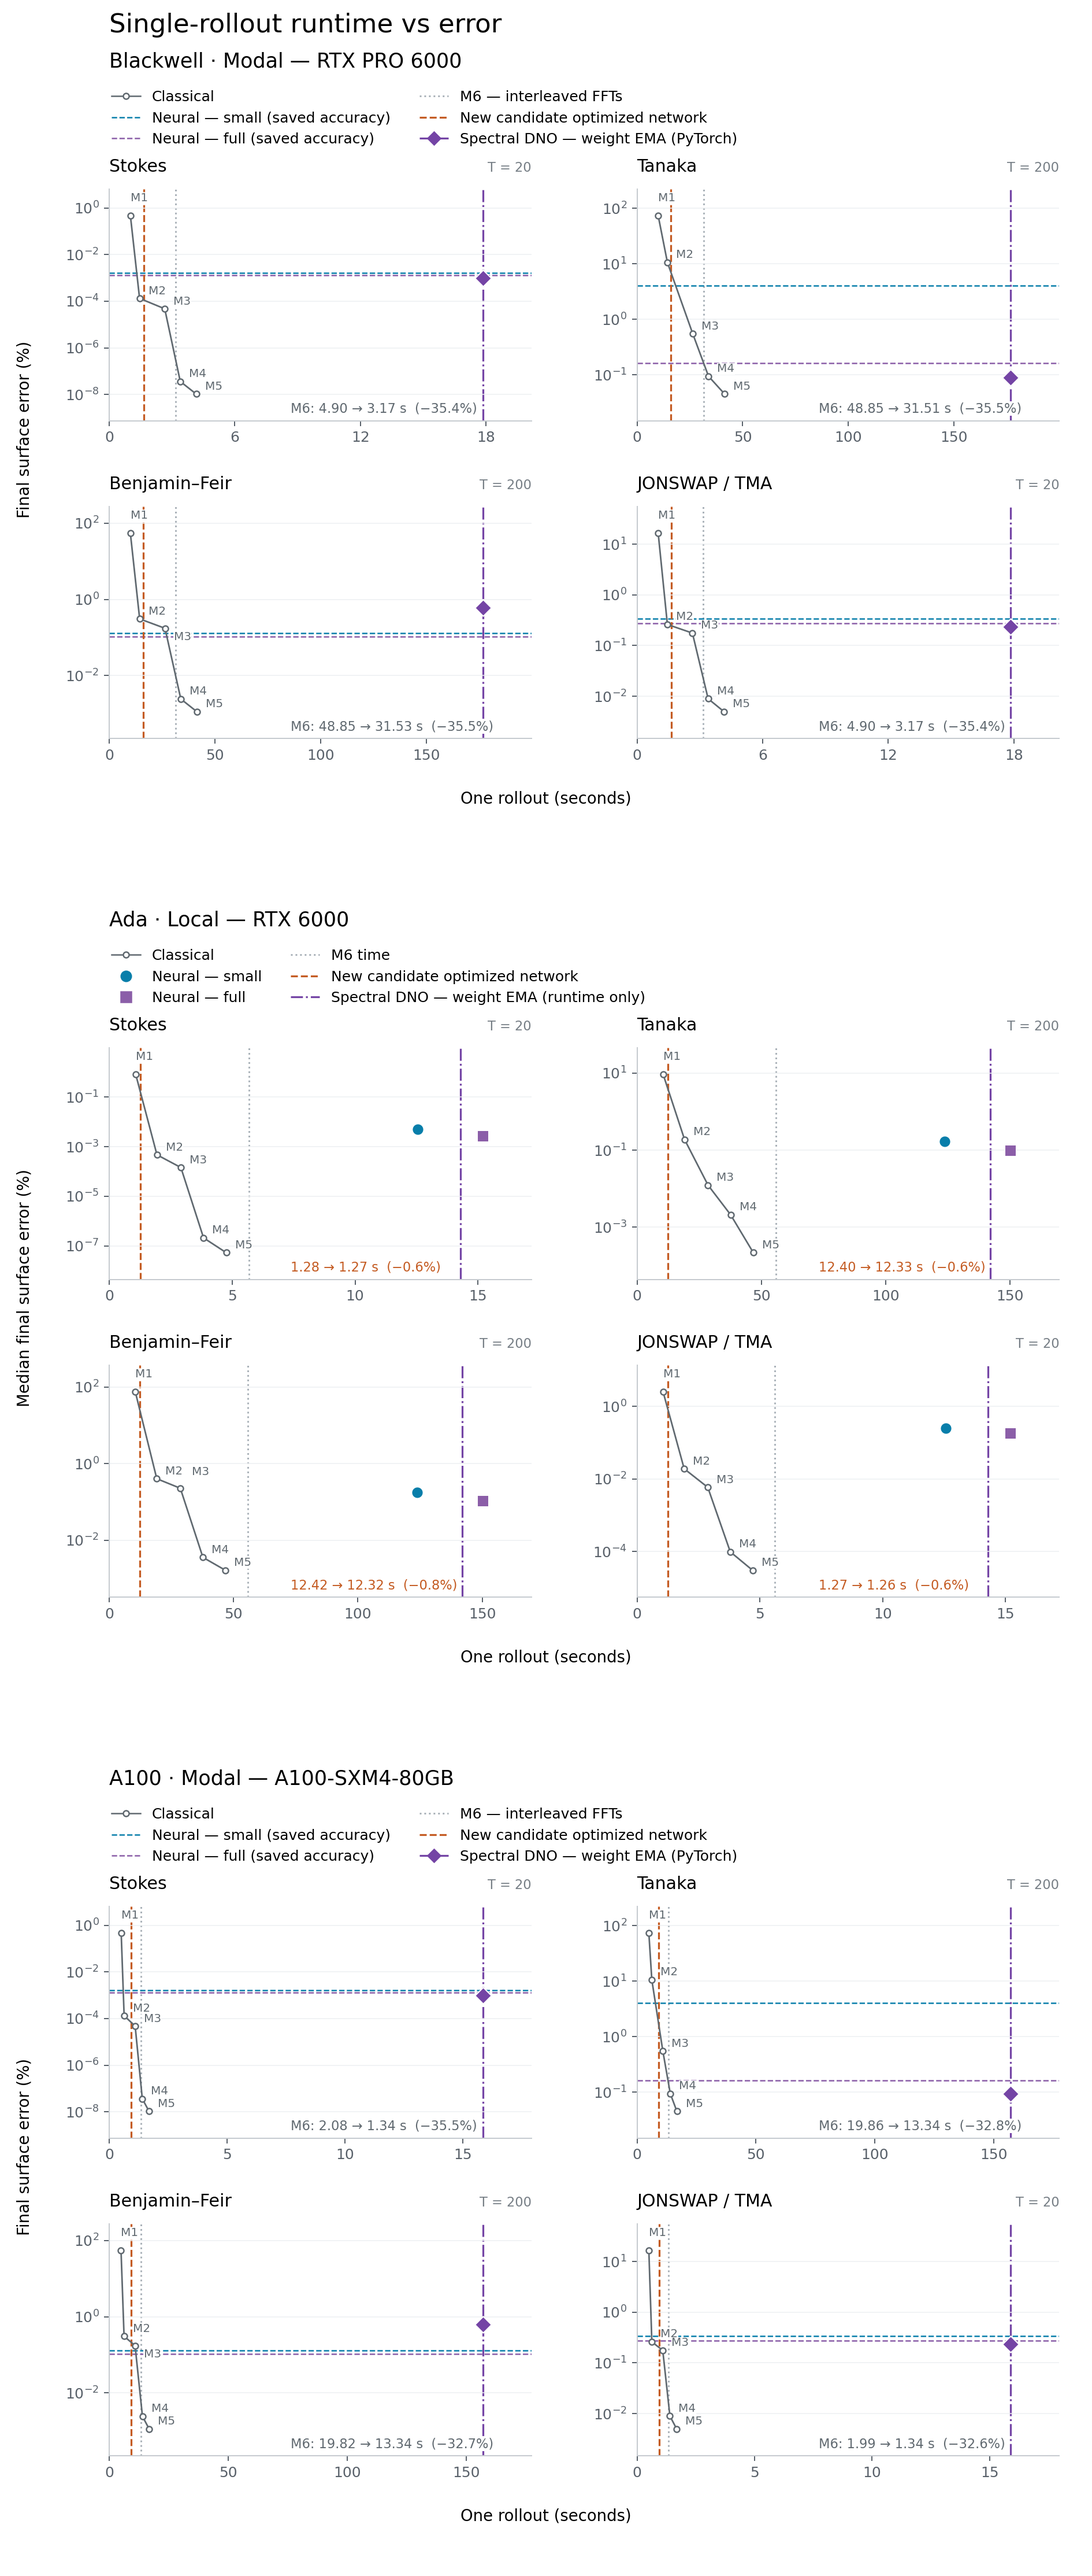
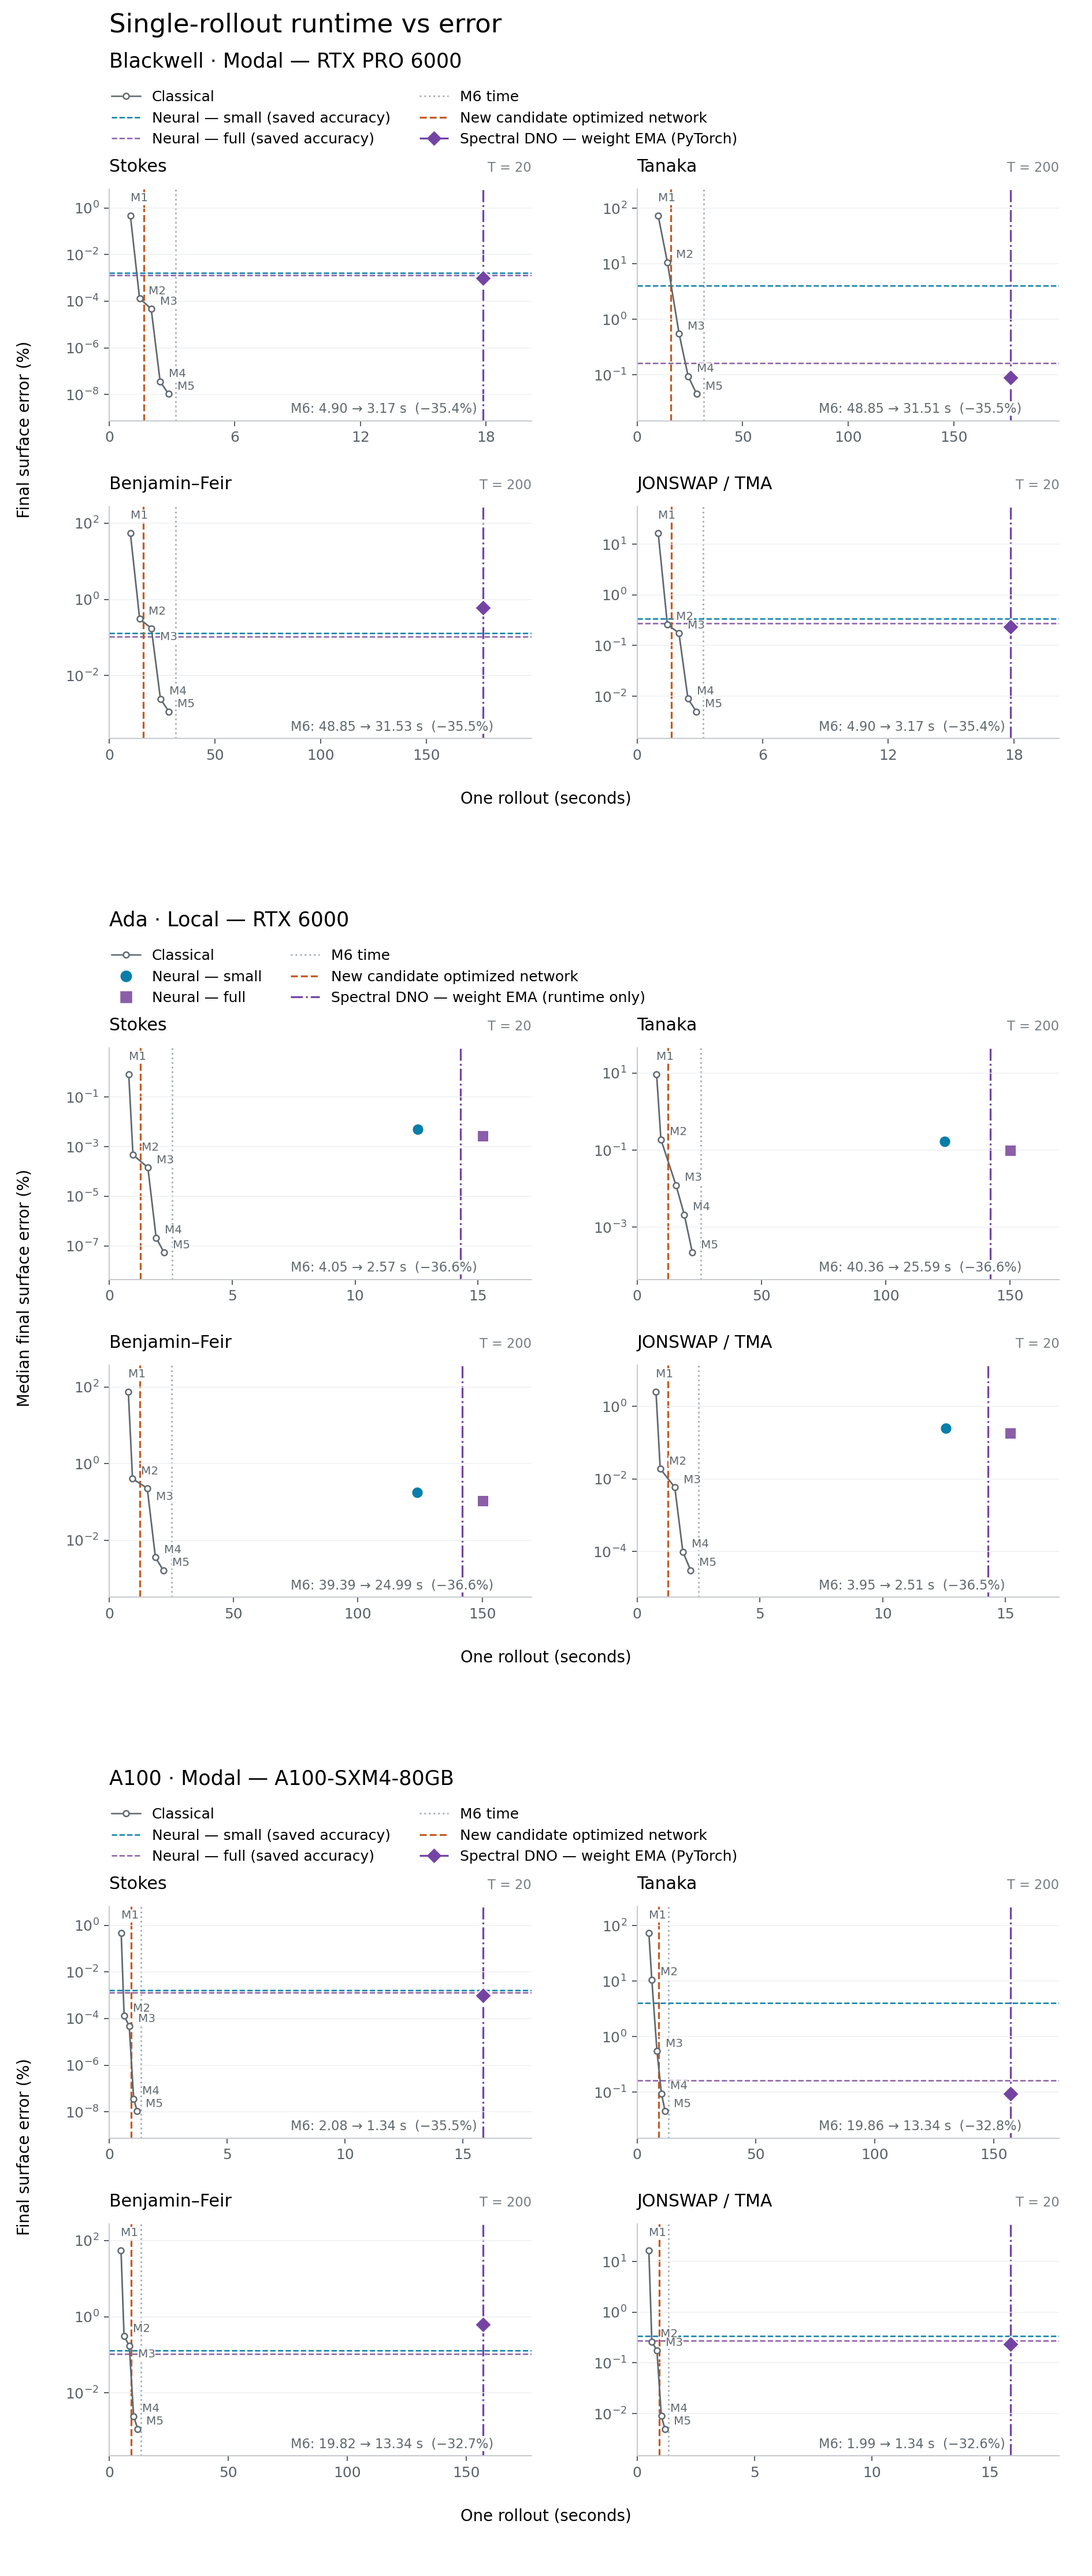
Refresh all-order classical timings and Figure 12

diff --git a/paper-plots/plot_neural_advantage.py b/paper-plots/plot_neural_advantage.py
@@ -41,12 +41,6 @@ def draw_comparison(args: argparse.Namespace, fig: Figure | SubFigure, heading: 
     for path in args.candidate_timings or ():
         for family, result in json.loads(path.read_text())["families"].items():
             candidate["families"].setdefault(family, result)["methods"].update(result["methods"])
-    if args.stack_hardware and not args.single_case:
-        for family, result in candidate["families"].items():
-            for method, record in result["methods"].items():
-                classical = method.split("_", 1)[0]
-                if classical in ("M1", "M2"):
-                    warm["families"][family]["methods"][classical]["seconds"] = record["seconds"]
     baseline_free = json.loads(args.no_baseline_timings.read_text()) if args.no_baseline_timings and not args.single_case else None
     spectral = {}
     for path in args.spectral_timings or ():
@@ -105,7 +99,7 @@ def draw_comparison(args: argparse.Namespace, fig: Figure | SubFigure, heading: 
         ax.plot(seconds[:-1], errors[:-1], "o-", color="#606970", ms=4,
                 markerfacecolor="white", lw=1.1, zorder=2)
         for order, x, y in zip(orders[:-1], seconds[:-1], errors[:-1], strict=True):
-            offset = ((6, -8) if args.single_case else (8, 9)) if family == "benjamin_feir" and order == 3 else (6, 3)
+            offset = (6, -8) if family == "benjamin_feir" and order == 3 else (6, 3)
             if (candidate or baseline_free) and order == 1:
                 offset = (0, 10)
             ax.annotate(f"M{order}", (x, y), xytext=offset, textcoords="offset points",
@@ -189,7 +183,7 @@ def draw_comparison(args: argparse.Namespace, fig: Figure | SubFigure, heading: 
                   ls="--" if args.single_case else "none", lw=1.0, ms=7,
                   label=f"Neural — {name}" + (" (saved accuracy)" if args.single_case else ""))
           for _, name, _, color, marker in reversed(RUNS)],
-        Line2D([], [], color="#aab2b9", ls=":", lw=1.2, label="M6 — interleaved FFTs" if interleaved_m6 else "M6 time"),
+        Line2D([], [], color="#aab2b9", ls=":", lw=1.2, label="M6 time"),
         *[Line2D([], [], color=color, ls=style, lw=width, label=label)
           for comparison, color, label, _method, style, width in overlays if comparison],
         *([Line2D([], [], color="#7444a5", marker="D" if args.single_case else None, ls="-.", ms=6, lw=1.3,
@@ -229,9 +223,9 @@ if __name__ == "__main__":
         a100 = argparse.Namespace(**vars(modal))
         for config, hardware in ((modal, "blackwell"), (args, "ada"), (a100, "a100")):
             classical = ROOT / "outputs" / {
-                "ada": "spectral_carry_20260927/ada_classical.json",
-                "blackwell": "classical_interleaved_20260927/blackwell/classical.json",
-                "a100": "classical_interleaved_20260927/a100_sxm/classical.json",
+                "ada": "classical_all_orders_20260928/ada/classical.json",
+                "blackwell": "classical_all_orders_20260928/blackwell/classical.json",
+                "a100": "classical_all_orders_20260928/a100_sxm/classical.json",
             }[hardware]
             if config.single_case:
                 config.timings = classical

diff --git a/paper-plots/README.md b/paper-plots/README.md
@@ -177,14 +177,13 @@ The candidate retains the same checkpoint, G0+G1 baselines, cuFFTDx G1 evaluatio
 cached depth multipliers and packed network branches. Its spectral adapter
 removes repeated physical/Fourier round trips and batches independent inverse
 FFTs. Every classical order M1–M6 receives the shared nonlinear FFT packing.
-Blackwell and A100 now use the same FP64 cuFFTDx classical implementation:
+All three GPUs now use the same FP64 cuFFTDx classical implementation:
 M1 uses unpadded DNO products with EPT8, M2 uses the specialized recurrence
 with unpadded products and EPT16, and M3–M6 use 2× padding with EPT8.
-The latest cloud M6 measurements interleave surface-power construction with
-the recurrence, reducing FFT dispatches from 22 to 12. M1–M5 have not been
-retimed with that schedule; their points are unchanged.
+M3–M6 interleave surface-power construction with the recurrence, reducing
+M6 FFT dispatches from 22 to 12. Ada's M1–M6 and the missing cloud M3–M5
+timings have been refreshed; cloud M1/M2 and M6 retain their preceding measurements.
 The unpadded M1/M2 products exploit the existing 128-mode state filter.
-Ada retains its previous measurements and 2× DNO padding.
 Each binary product is projected back to the base modes before reuse;
 the earlier 2×/8× check on 48 states across all six orders had maximum
 relative difference 7.75e-12; see
@@ -218,27 +217,22 @@ Spectral carry and local propagators also apply to every classical order M1–M6
 alongside the previous stage pairing and boundary FFT packing. FP64 integration/G1,
 FP32 learned inference, weights and iteration count are unchanged.
 
-Cloud M6 timings come from
-`outputs/classical_interleaved_20260927/{blackwell,a100_sxm}/classical.json`.
-Gray annotations compare interleaved M6 against its paired preceding M6
-implementation using three alternating full-rollout repeats per family.
-Only M6 is replaced; the M1–M5 and neural measurements remain under
-`outputs/classical_figure12_20260927/{blackwell,a100_sxm}/`:
-`classical.json` contains the preceding M1–M6 sweep and `neural.json` contains
-the current and preceding candidates. That sweep used one `sciml-at-ud`
-allocation per hardware, with three alternating full-rollout repeats after full-executable
-warm-up. Classical and neural runs retain the same integration settings and
-packed boundaries; the neural checkpoint and inference path are unchanged.
-One warmed and timed cuFFT control per order checks the selected native
-implementation. Classical errors remain referenced to the cached M6 trajectory.
-Ada is unchanged: classical measurements come from
-`outputs/spectral_carry_20260927/ada_classical.json`, and the candidate and paired
-M2 timings come from `outputs/half_spectrum_20260927/ada_full.json` on GPU1.
-Ada's orange annotations compare the candidate against
-`fourier_fused_features_overlap_spectral_all_boundaries_stages_carry_local`
-using paired old/new neural timings. Product fusion saves 0.60–0.75% on the
-retained Ada run. Both annotation types use paired measurements, not differences
-between allocations.
+Classical timings come from
+`outputs/classical_all_orders_20260928/{ada,blackwell,a100_sxm}/classical.json`.
+Ada uses a fresh all-order sweep. Cloud M3–M5 use new `sciml-at-ud` runs;
+M1/M2 retain `outputs/classical_figure12_20260927/` measurements, and M6
+retains `outputs/classical_interleaved_20260927/` measurements. These cloud
+points therefore span multiple allocations. Each M3–M6 optimization comparison
+uses paired old/new implementations, with three alternating full-rollout repeats
+after full-executable warm-up. Gray annotations show the paired M6 savings,
+not differences between allocations. Ada keeps its original 32-case median
+errors; cloud errors remain referenced to the cached single-case M6 trajectory.
+Neural timings are unchanged: cloud candidates remain under
+`outputs/classical_figure12_20260927/{blackwell,a100_sxm}/neural.json`, and Ada
+uses `outputs/half_spectrum_20260927/ada_full.json`. Classical and neural runs
+retain the same integration settings and packed boundaries; neural checkpoints,
+inference paths, trained-model accuracy references and spectral EMA overlays
+are unchanged.
 Balanced feature stores showed no useful additional gain. Half-spectrum GL2
 carry was also tested for both methods and rejected; the selected neural and
 classical paths both retain full-spectrum carry.
@@ -328,17 +322,17 @@ and selected by the rollout timer; production trainers and checkpoints are
 untouched. Search results, numerical checks and merge decisions are recorded
 in `notes/dno_profile_20260924.md` and the September 25–26 logs under `experiments/`.
 This update does not regenerate figure 11, the manuscript or the ZIP. After
-building cuFFTDx for the selected cloud GPU, reproduce the shared benchmark with:
+building cuFFTDx for the selected GPU, reproduce the classical sweep with:
 
 ```sh
 XLA_FLAGS=--xla_gpu_experimental_stream_annotation=true \
   UV_CACHE_DIR=/tmp/codex-uv-cache uv run --no-sync scripts/benchmark_classical.py \
   --sweep --rollouts --repeats 3 \
-  --candidate-run outputs/c27_w320_b4_h80_tanaka_hard128_20260924 \
   --output outputs/classical_sweep/sweep.json
 ```
 
-Reproduce the M6 interleaving comparison with:
+Add `--sweep-orders 3 4 5` for the cloud refresh; Ada uses all six orders.
+Reproduce the retained cloud M6 interleaving comparison with:
 
 ```sh
 XLA_FLAGS=--xla_gpu_experimental_stream_annotation=true \
@@ -348,8 +342,8 @@ XLA_FLAGS=--xla_gpu_experimental_stream_annotation=true \
   --output outputs/classical_interleaved/rollouts.json
 ```
 
-The cloud runner extracts the selected records into `classical.json` and
-`neural.json` for each hardware section. Render the figure with:
+The selected records populate `classical.json`; the preceding `neural.json`
+files are unchanged. Render the figure with:
 
 ```sh
 UV_CACHE_DIR=/tmp/codex-uv-cache uv run --no-sync paper-plots/plot_neural_advantage.py \

diff --git a/experiments/experiments-2026-09-28.md b/experiments/experiments-2026-09-28.md
@@ -1,3 +1,4 @@
 | Date | Time | File / Variant | Motivation | What Tried / Evidence | Correctness | Timing | Decision |
 | --- | --- | --- | --- | --- | --- | --- | --- |
 | 2026-09-28 | 02:08 | Complete interleaved classical-order timing refresh: Ada M1–M6 and cloud M3–M5 | Measuring only M6 left the intermediate-order frontier on the old schedule and Ada untouched; fresh selected-order timings are needed without extrapolating M6 gains or repeating already confirmed cloud orders. | Extended benchmark_classical.py sweep with --sweep-orders; M1 nativeFP64pad1EPT8 and M2 specialized nativeFP64pad1EPT16 retained, M3–M6 interleaved nativeFP64pad2EPT8. M1/M2 controls use cuFFTpad2, M3–M6 controls the preceding native schedule. Three alternating repeats for selected and control methods, unchanged independent untimed M6 reference. Built SM89 kernels and launched Stokes/Tanaka on AdaGPU0,BF/JON on AdaGPU1 after both were verified idle; submitted missing M3–M5 four-family sweeps on sciml-at-ud A100-SXM4 and Blackwell. | Independent actual-CLI mocked CPU audit passes all-order,3–5subset and2-only cases: correct backends,padding,EPT,same-order controls; fixedM6 self-reference works when6excluded; full251frames,N1024,dt0.01,P128,first-case selection,packed boundaries and forward/reverse/forward timing order verified. Expected Ada52outputs/144timings,cloud28outputs/72timings each. Previous recurrence correctness proof remains applicable; Ruff/Pyright/diff checks pass. | Jobs running as of02:08; native/full-rollout results pending. Sources outputs/classical_all_orders_20260928/{ada,a100_sxm,blackwell}. Each timing is a single full T20/T200 trajectory, never a batch of trajectories. | RUN complete measurements before Figure12 refresh. Preserve neural/spectral timing and accuracy data; Ada errors retain existing32-case medians. Cloud M1/M2 and already confirmed interleaved M6 remain measured prior values. No production/trainer/kernel source edits or interruption of others. Stop resource use on any Modal funding-limit error without account/local fallback. |
+| 2026-09-28 | 02:39 | Complete Ada M1–M6 / cloud M3–M5 timing results and Figure12 refresh | The M6-only update left intermediate CS orders measured on the previous schedule; every changed order needs measured full-horizon runtime, and Ada needs the same implementation choices as the cloud chips. | Completed paired full single-rollout sweeps: Ada all six orders on two idle GPUs, missing M3–M5 on sciml-at-ud A100-SXM4 and Blackwell; three alternating repeats per selected/control method, N1024,dt0.01,P128,4GL2updates,T20Stokes/JON,T200Tanaka/BF. Sources outputs/classical_all_orders_20260928/{ada/gpu0.json,ada/gpu1.json,a100_sxm/sweep.json,blackwell/sweep.json}; selected classical.json files feed Figure12. Cloud M1/M2 and confirmed interleaved M6 retain their preceding measurements, not reruns. | Independent audits pass all108outputs/288timings: finite,positive-depth,correct case/settings/repeat counts. M3–M6 new-vs-old saved eta/xi/Gxi errors exactlyzero; Ada M1/M2 maxrelative differences below8.1e-13. Cloud fixedM6 and preceding native cached statistics match exactly; Ada fixedM6 eta/xi statistics match, TanakaGxi statistics differ only9.1e-18. Every candidate timing range is below its paired control range. Figure audit verifies all60classical points/12M6lines,24retained cloud records,unchanged40neural lines/16scatter artists,Ada32-case medians and12paired-savings annotations; visual check and Ruff/Pyright/scoped diff checks pass. Adjusted only overlapping AdaBF M3 label. Maxcandidate repeat spread Ada0.383%,Blackwell0.241%; A100 has occasional outliers up to8.76%, still with disjoint old/new ranges. | Ada selected M1–M6 medians(seconds): Stokes[0.794,0.967,1.573,1.910,2.236,2.565],Tanaka[7.878,9.621,15.685,19.035,22.287,25.591],BF[7.681,9.380,15.296,18.591,21.756,24.992],JON[0.773,0.945,1.539,1.866,2.185,2.507]. Paired native-schedule reductions AdaM3/M4/M5/M6~27/32/35/37%; A100M3/M4/M5~23/26–27/30%; Blackwell~26/30/34%. AdaM1/M2 vs cuFFTpad2 controls~25/51%, a separate backend/padding comparison, not interleaving gains. | KEEP measured classical curves for all hardware and unchanged neural timing/accuracy records, Ada32-case median errors and spectralEMA overlays. Remove stale AdaM2 candidate-file override. Both local jobs and both cloud apps exited successfully; GPUs released, no funding failure or other-job interruption. No production trainer/solver/native-source changes in this timing refresh. |

diff --git a/EXPERIMENTS.md b/EXPERIMENTS.md
@@ -33,11 +33,11 @@ could not be recovered at all are in
 
 ## Dated logs
 
-80 files, 1129 rows.
+80 files, 1130 rows.
 
 | Date | Rows | File | Size |
 | --- | --- | --- | --- |
-| 2026-09-28 | 1 | [`experiments/experiments-2026-09-28.md`](experiments/experiments-2026-09-28.md) | 3 KB |
+| 2026-09-28 | 2 | [`experiments/experiments-2026-09-28.md`](experiments/experiments-2026-09-28.md) | 5 KB |
 | 2026-09-27 | 29 | [`experiments/experiments-2026-09-27.md`](experiments/experiments-2026-09-27.md) | 52 KB |
 | 2026-09-26 | 19 | [`experiments/experiments-2026-09-26.md`](experiments/experiments-2026-09-26.md) | 30 KB |
 | 2026-09-25 | 19 | [`experiments/experiments-2026-09-25.md`](experiments/experiments-2026-09-25.md) | 28 KB |
